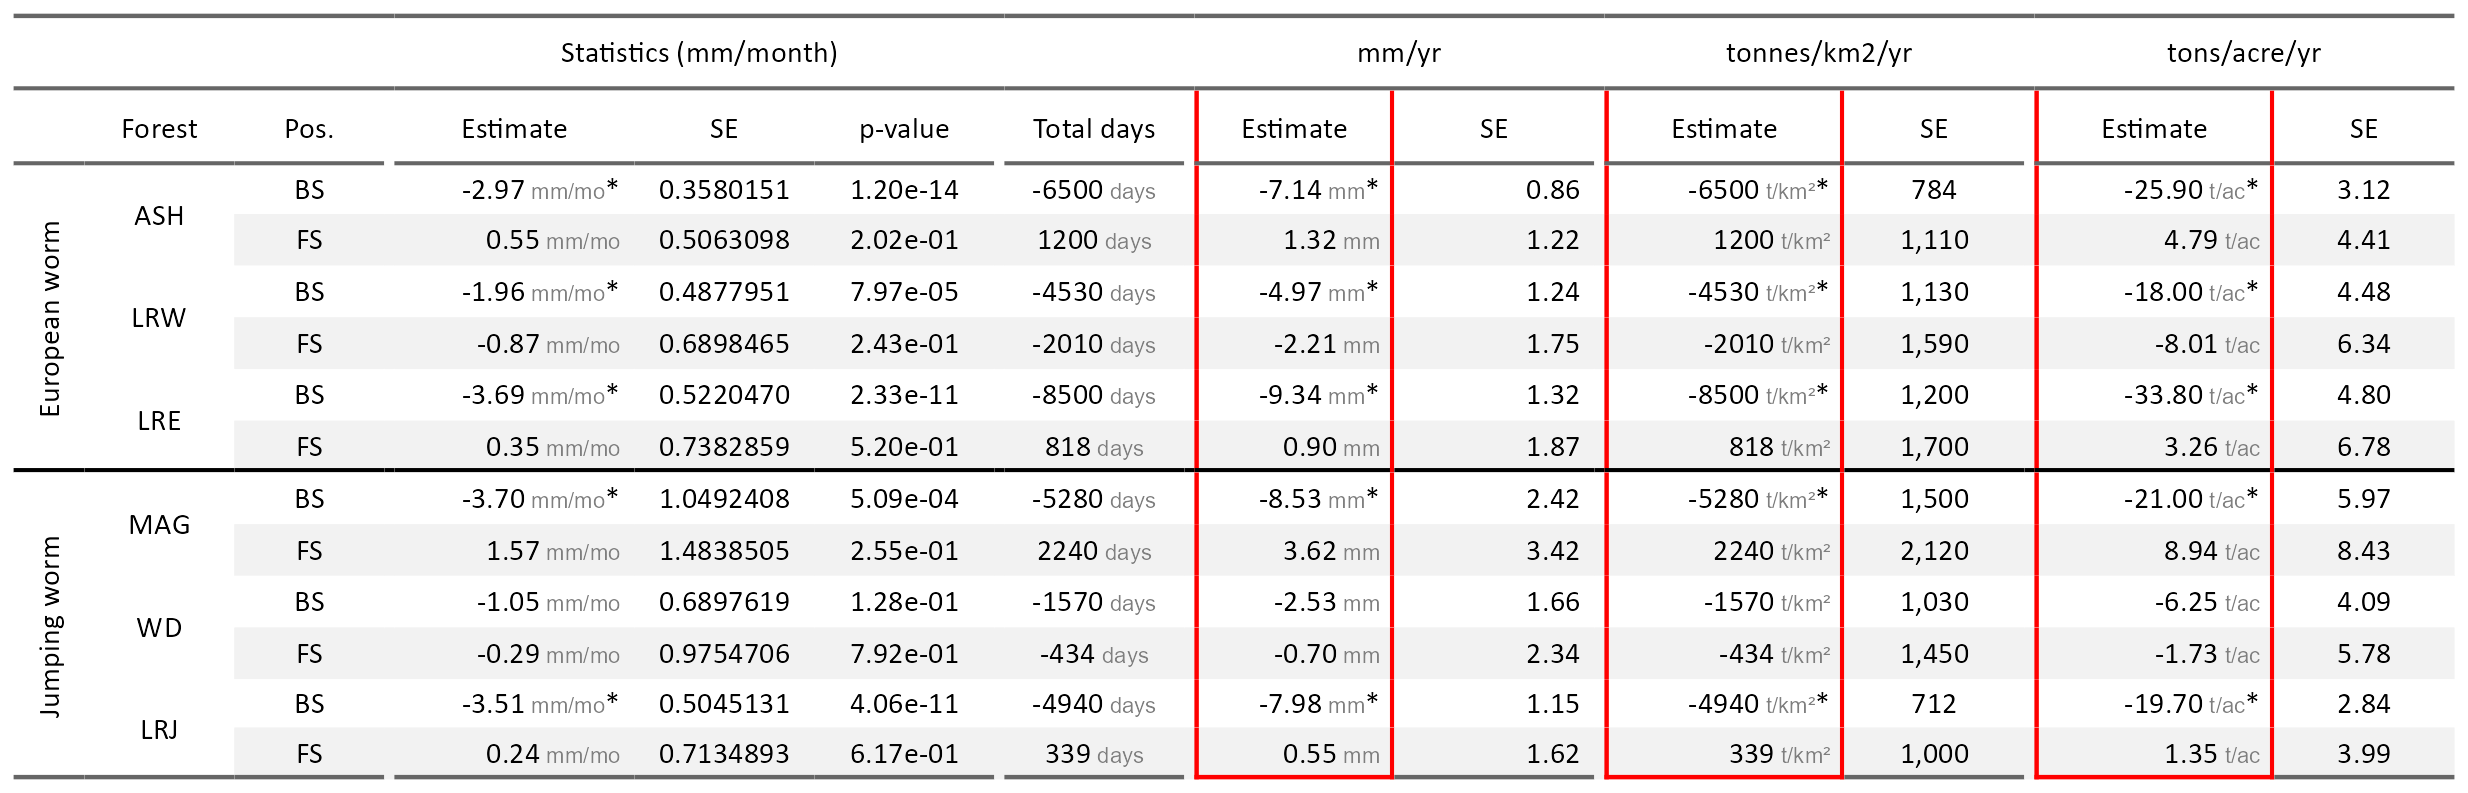
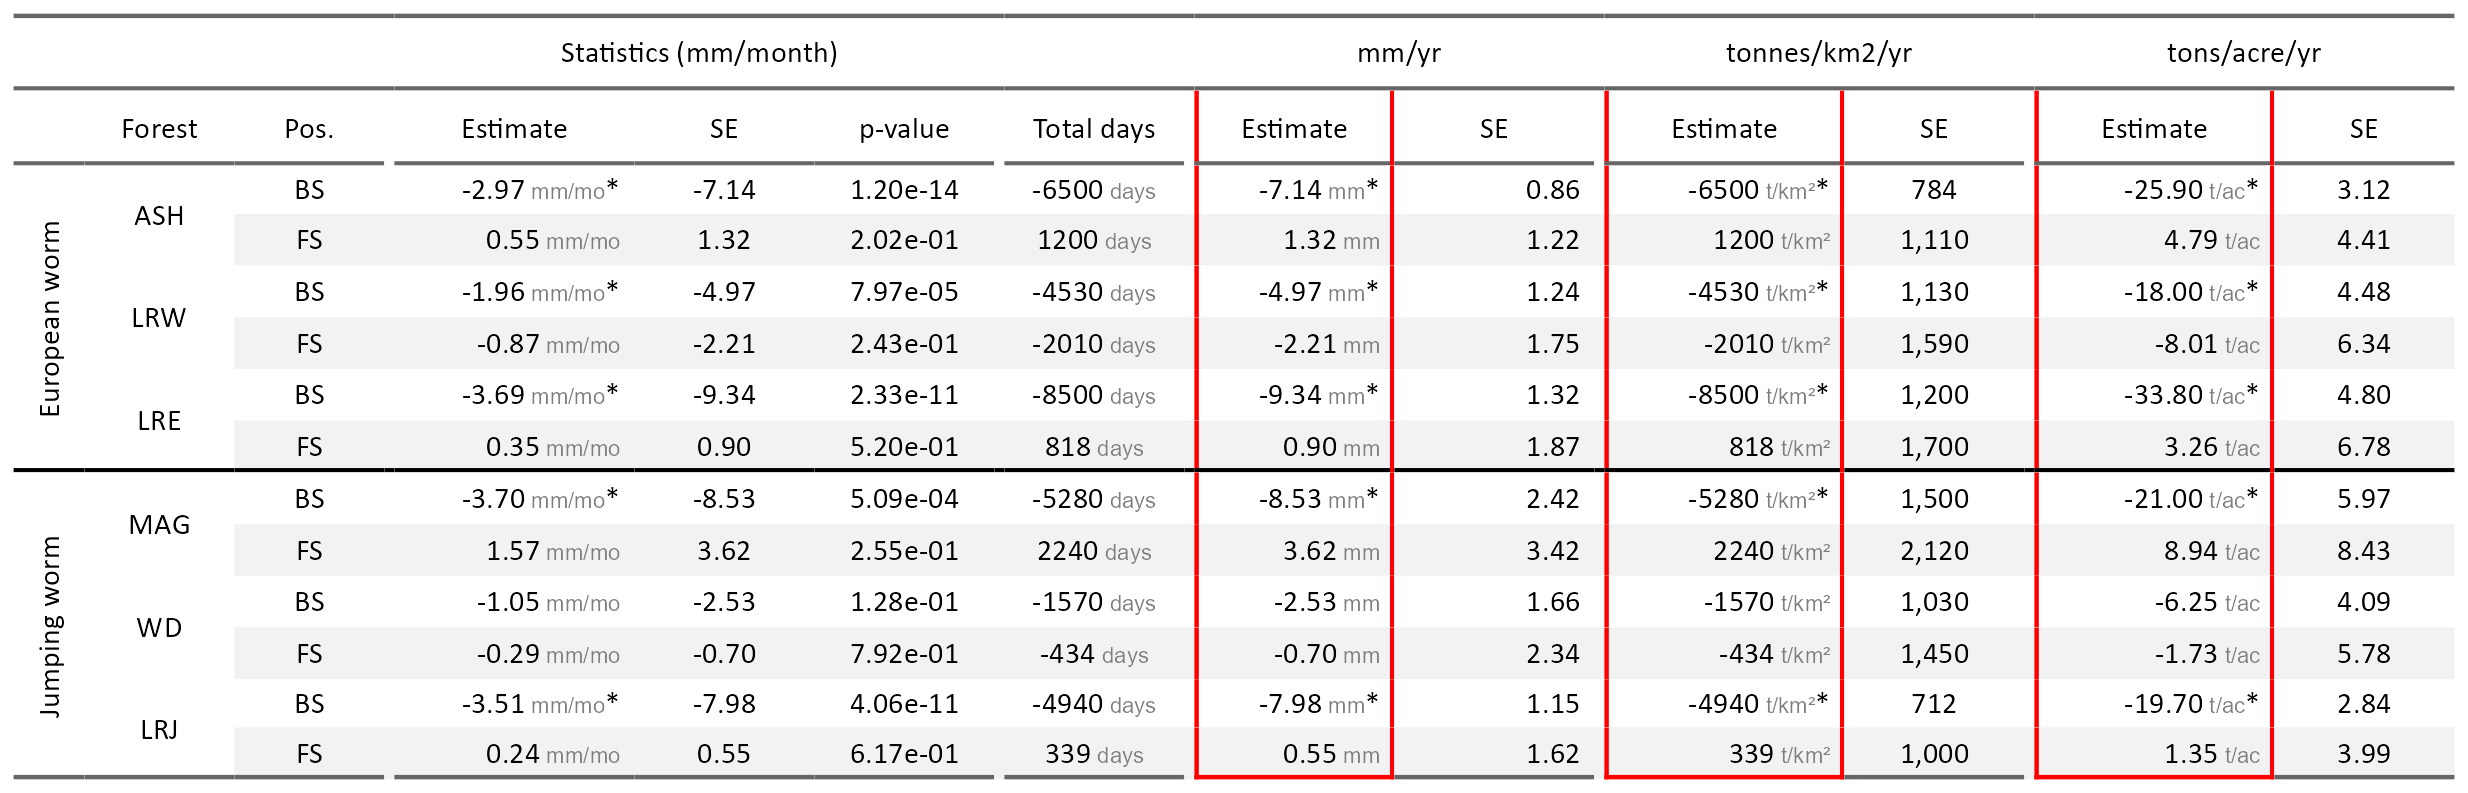
SE units in flextable

diff --git a/README.md b/README.md
@@ -1,1 +1,4 @@
 # piped_erosion_pins
+
+# LiDAR
+# https://r-lidar.github.io/lidRbook/
